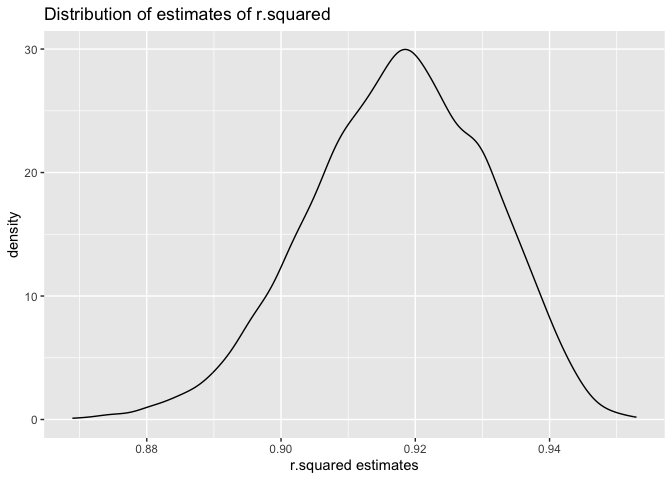
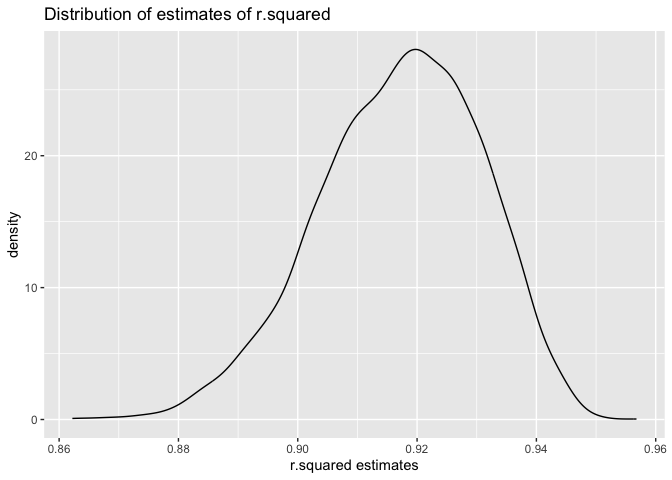
update problem 2

diff --git a/p8105_hw6_qh2284.md b/p8105_hw6_qh2284.md
@@ -210,7 +210,7 @@ estimates of these two quantities. Plot the distribution of your
 estimates, and describe these in words. Using the 5000 bootstrap
 estimates, identify the 2.5% and 97.5% quantiles to provide a 95%
 confidence interval for** $\hat{r}^2$ **and**
-$log(\hat{\beta_0} * \hat{\beta_1})$**. Note: `broom::glance()` is
+$log(\hat{\beta_1} * \hat{\beta_2})$**. Note: `broom::glance()` is
 helpful for extracting** $\hat{r}^2$ **from a fitted regression, and
 `broom::tidy()` (with some additional wrangling) should help in
 computing** $log(\hat{\beta_1} * \hat{\beta_2})$**.**
@@ -253,21 +253,23 @@ boot_strap = weather_df %>%
 
 res = boot_strap %>%
   summarise(r.squared = r.squared,
-    log_beta12 = log(beta_1 * beta_2),
-    log_beta01 = log(beta_0 * beta_1))
+    log_beta12 = log(beta_1 * beta_2))
+
+res_noNA = res %>%
+  na.omit()
 
 head(res)
 ```
 
-    ## # A tibble: 6 × 3
-    ##   r.squared log_beta12 log_beta01
-    ##       <dbl>      <dbl>      <dbl>
-    ## 1     0.910      -5.89       2.11
-    ## 2     0.930     NaN          2.11
-    ## 3     0.921     NaN          2.09
-    ## 4     0.935     NaN          2.13
-    ## 5     0.918     NaN          2.09
-    ## 6     0.896      -5.78       2.09
+    ## # A tibble: 6 × 2
+    ##   r.squared log_beta12
+    ##       <dbl>      <dbl>
+    ## 1     0.913      -7.92
+    ## 2     0.933     NaN   
+    ## 3     0.922     NaN   
+    ## 4     0.927     NaN   
+    ## 5     0.920     NaN   
+    ## 6     0.925     NaN
 
 ``` r
 # calculate CI for r-squared and log
@@ -276,7 +278,7 @@ r2_ci =
   knitr::kable()
 
 log_ci = 
-  quantile(pull(res,log_beta01), probs = c(0.025,0.975)) %>% 
+  quantile(pull(res_noNA,log_beta12), probs = c(0.025,0.975)) %>% 
   knitr::kable()
   
 r2_ci
@@ -284,17 +286,17 @@ r2_ci
 
 |       |         x |
 |:------|----------:|
-| 2.5%  | 0.8900267 |
-| 97.5% | 0.9408257 |
+| 2.5%  | 0.8883467 |
+| 97.5% | 0.9407047 |
 
 ``` r
 log_ci
 ```
 
-|       |        x |
-|:------|---------:|
-| 2.5%  | 2.054710 |
-| 97.5% | 2.138689 |
+|       |         x |
+|:------|----------:|
+| 2.5%  | -9.207000 |
+| 97.5% | -4.535707 |
 
 ``` r
 r2_dist = res %>%
@@ -313,7 +315,7 @@ indicators of tmax. Also, the distribution is approximately as normal
 distribution but left-skewed.
 
 ``` r
-b1b2_dist = res %>%
+b1b2_dist = res_noNA %>%
   ggplot(aes(x = log_beta12)) +
   geom_density() +
   labs(title = "Distribution of log(beta1*beta2)", x = "log(beta1*beta2)")
@@ -325,20 +327,6 @@ b1b2_dist
 
 Comment: The distribution is somewhat skewed and has some outliers.
 Large samples are useful for inference to some point.
-
-``` r
-b0b1_dist = res %>%
-  ggplot(aes(x = log_beta01)) +
-  geom_density() +
-  labs(title = "Distribution of log(beta0*beta1)", x = "log(beta0*beta1)")
-
-b0b1_dist
-```
-
-![](p8105_hw6_qh2284_files/figure-gfm/unnamed-chunk-16-1.png)<!-- -->
-
-Comment: log(beta0\*beta1) are approximately normal distribution (with a
-little left skewed).
 
 ## Problem 3
 
@@ -423,7 +411,7 @@ birth %>%
 
     ## `geom_smooth()` using formula = 'y ~ x'
 
-![](p8105_hw6_qh2284_files/figure-gfm/unnamed-chunk-20-1.png)<!-- -->
+![](p8105_hw6_qh2284_files/figure-gfm/unnamed-chunk-19-1.png)<!-- -->
 
 Since the slope of the fitted line is almost 0, it’s hard for us to
 analyze the relationship.
@@ -499,7 +487,7 @@ cv_birth %>%
   geom_violin()
 ```
 
-![](p8105_hw6_qh2284_files/figure-gfm/unnamed-chunk-23-1.png)<!-- -->
+![](p8105_hw6_qh2284_files/figure-gfm/unnamed-chunk-22-1.png)<!-- -->
 
 Comment: From above, we could conclude that full model (which consider
 all predictors) has the best distribution of RMSE (smallest RMSE) while
